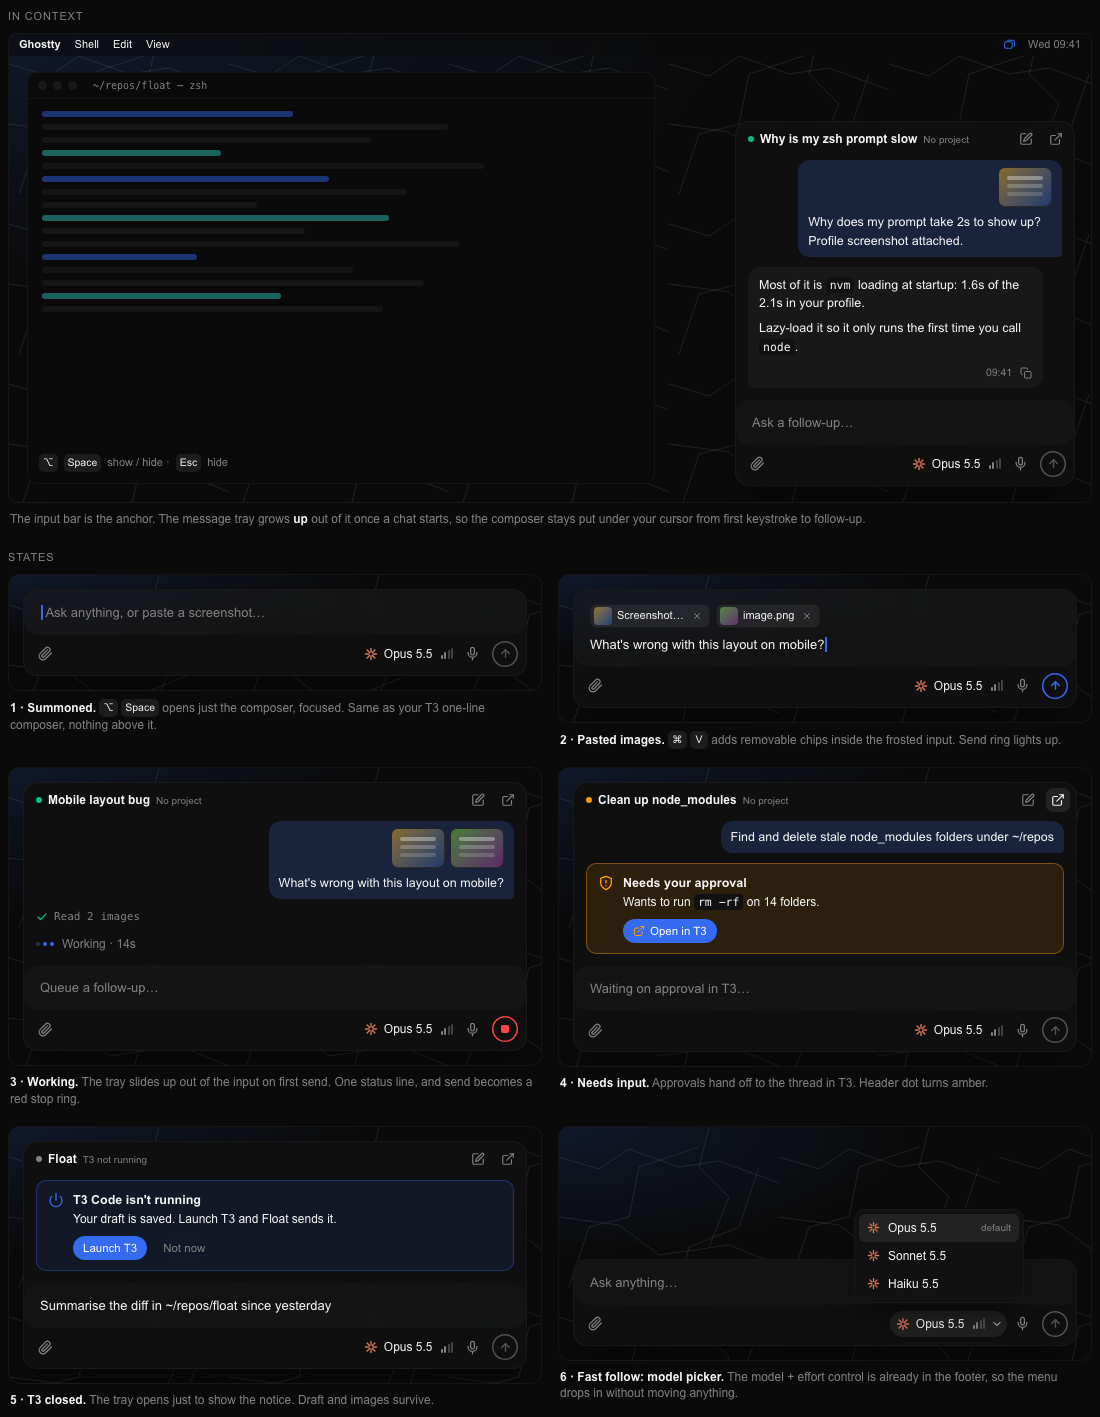
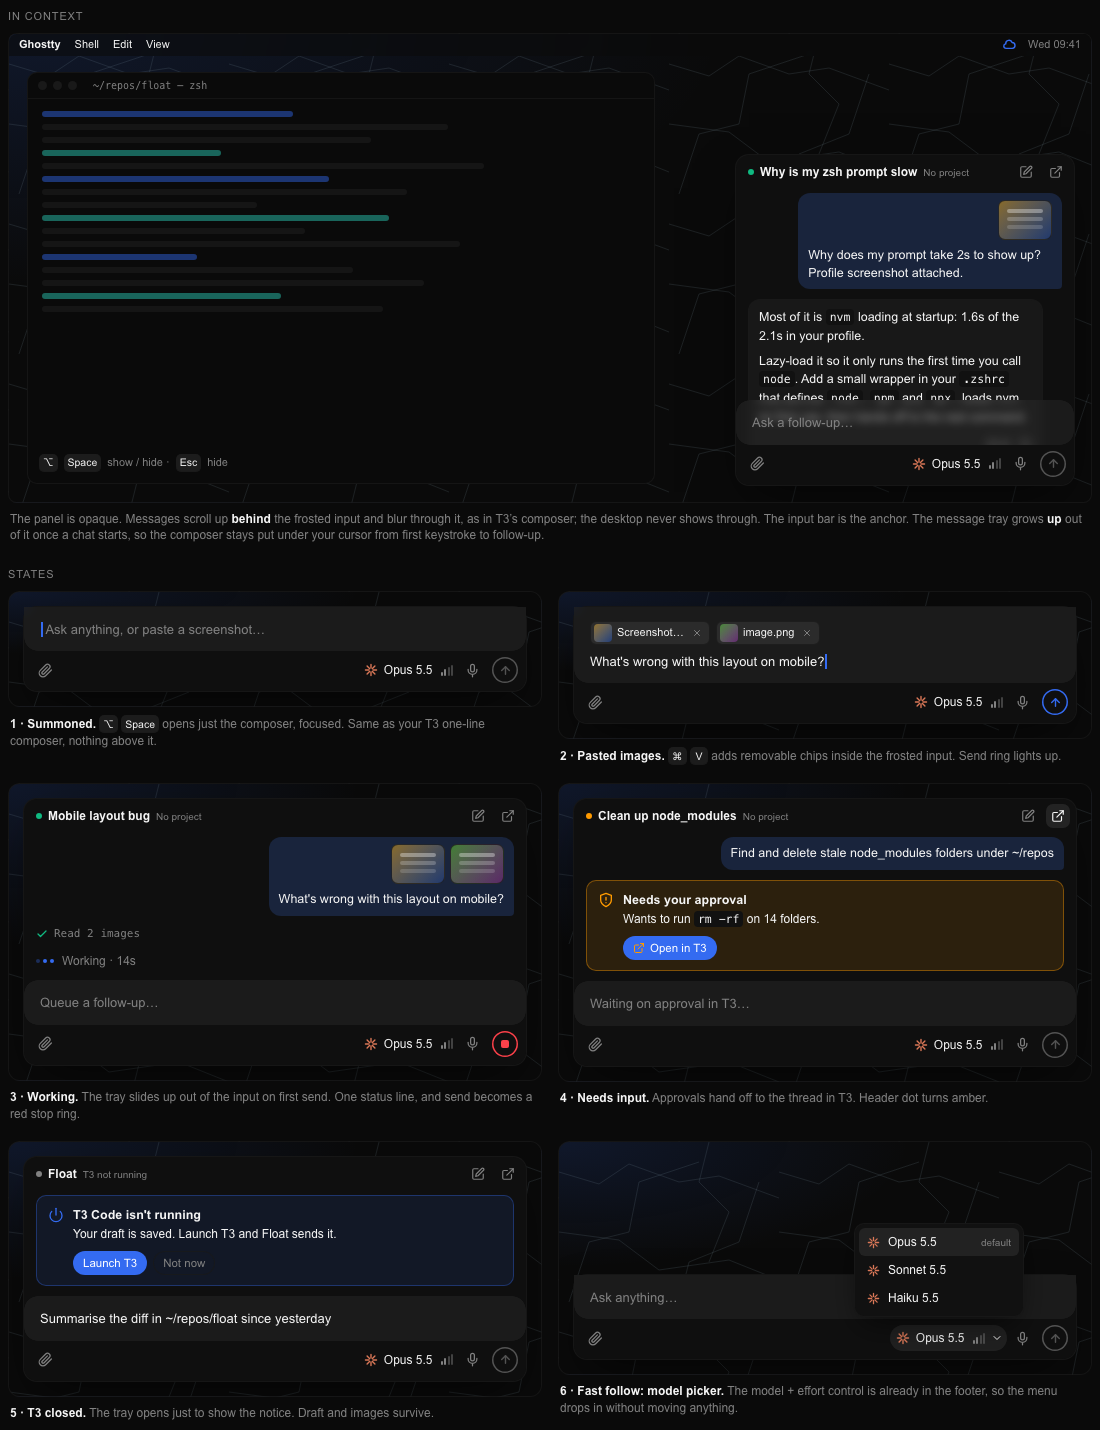
docs(design): messages scroll behind the frosted input, panel is opaque

diff --git a/design/float-mockups.html b/design/float-mockups.html
@@ -143,6 +143,19 @@ code{font-family:var(--font-mono);font-size:11.5px;background:var(--code-backgro
 
 .grid{display:grid;grid-template-columns:1fr 1fr;gap:18px 16px;align-items:start}
 @media (max-width:600px){.grid{grid-template-columns:1fr}.desk .shell{left:16px;width:auto}.app{width:calc(100% - 36px)}}
+
+/* v3: opaque panel; the frosted input blurs the messages scrolling behind it, not the desktop */
+.shell{background:var(--solid);backdrop-filter:none;-webkit-backdrop-filter:none}
+.tray-top::before{display:none}
+.input{position:relative;z-index:1;background:color-mix(in oklab, var(--foreground) 6%, color-mix(in oklab, var(--card) 35%, transparent));backdrop-filter:blur(5px) saturate(1.3);-webkit-backdrop-filter:blur(5px) saturate(1.3)}
+.input.over{margin-top:calc(-1 * var(--ov, 34px))}
+.input.over::before,.input.over::after{content:"";position:absolute;top:0;width:var(--r);height:var(--r);background:var(--solid);pointer-events:none}
+.input.over::before{left:0;-webkit-mask:radial-gradient(circle at 100% 100%, transparent calc(var(--r) - .5px), #000 var(--r));mask:radial-gradient(circle at 100% 100%, transparent calc(var(--r) - .5px), #000 var(--r))}
+.input.over::after{right:0;-webkit-mask:radial-gradient(circle at 0 100%, transparent calc(var(--r) - .5px), #000 var(--r));mask:radial-gradient(circle at 0 100%, transparent calc(var(--r) - .5px), #000 var(--r))}
+.tray-foot{z-index:2}
+.msgs.under{padding-bottom:calc(var(--ov, 34px) + 10px)}
+.desk .msgs.under{padding-bottom:0}
+.desk .input.over{--ov:58px}
 </style>
 </head>
 <body>
@@ -181,7 +194,7 @@ code{font-family:var(--font-mono);font-size:11.5px;background:var(--code-backgro
       </div>
       <div class="kbd-hint"><span class="kbd">⌥</span><span class="kbd">Space</span> show / hide · <span class="kbd">Esc</span> hide</div>
     </div>
-    <p class="cap">The input bar is the anchor. The message tray grows <b>up</b> out of it once a chat starts, so the composer stays put under your cursor from first keystroke to follow-up.</p>
+    <p class="cap">The panel is opaque. Messages scroll up <b>behind</b> the frosted input and blur through it, as in T3’s composer; the desktop never shows through. The input bar is the anchor. The message tray grows <b>up</b> out of it once a chat starts, so the composer stays put under your cursor from first keystroke to follow-up.</p>
   </div>
 
   <div>
@@ -203,10 +216,10 @@ function trayTop({title, sub='No project', dot='var(--success)', openHover=false
   return `<div class="tray-top"><div class="hdr"><span class="dot" style="background:${dot}"></span>
     <div class="ttl">${title}<small>${sub}</small></div>
     <span class="ib" title="New chat">${ic('new')}</span><span class="ib ${openHover?'hv':''}" title="Open in T3">${ic('open')}</span></div>
-    <div class="msgs">${body}</div></div>`;
+    <div class="msgs under">${body}</div></div>`;
 }
 function shell({tray='', input, send, modelOpen, extra='', style=''}){
-  return `<div class="shell" style="${style}">${extra}${tray}<div class="input">${input}</div>${footer({send, modelOpen})}</div>`;
+  return `<div class="shell" style="${style}">${extra}${tray}<div class="input${tray?' over':''}">${input}</div>${footer({send, modelOpen})}</div>`;
 }
 const ph = (t) => `<span class="ph">${t}</span>`;
 const thumb = (h=0) => `<div class="thumb" style="filter:hue-rotate(${h}deg)"></div>`;
@@ -216,7 +229,7 @@ const chip = (n,h=0) => `<div class="chip"><div class="mini" style="filter:hue-r
 document.getElementById('hero').insertAdjacentHTML('beforeend', shell({
   tray: trayTop({title:'Why is my zsh prompt slow', body:
     `<div class="msg-u"><div class="thumbs">${thumb()}</div>Why does my prompt take 2s to show up? Profile screenshot attached.</div>` +
-    reply(['Most of it is <code>nvm</code> loading at startup: 1.6s of the 2.1s in your profile.','Lazy-load it so it only runs the first time you call <code>node</code>.'],'09:41')}),
+    reply(['Most of it is <code>nvm</code> loading at startup: 1.6s of the 2.1s in your profile.','Lazy-load it so it only runs the first time you call <code>node</code>. Add a small wrapper in your <code>.zshrc</code> that defines <code>node</code>, <code>npm</code> and <code>npx</code>, loads nvm on first use, then hands off to the real command.'],'09:41')}),
   input: ph('Ask a follow-up…')
 }));
 

diff --git a/design/README.md b/design/README.md
@@ -25,6 +25,8 @@ The colours come from Dylan's nordbones T3 theme. So do the pixel thinking loade
 
 ## Fixed rules
 
+- **Opaque panel, frosted input.** The panel is opaque, so the desktop never shows through. The conversation scrolls up *behind* the frosted input, and the input blurs the message text under it, as in T3's composer. The solid footer tucks under the input with concave corners. The input's top corners are drawn as solid concave ears over the scrolling content.
+
 - **Corner radius:** 16 for the shell, 12 for bubbles, 10 for cards and menus, 6 for chips.
 - **Thinking loader:** the 3×3 pixel grid, 4 frames, stepping every 300 ms. It's the only progress indicator.
 - **Replies:** show only assistant text. Never show tool calls.
